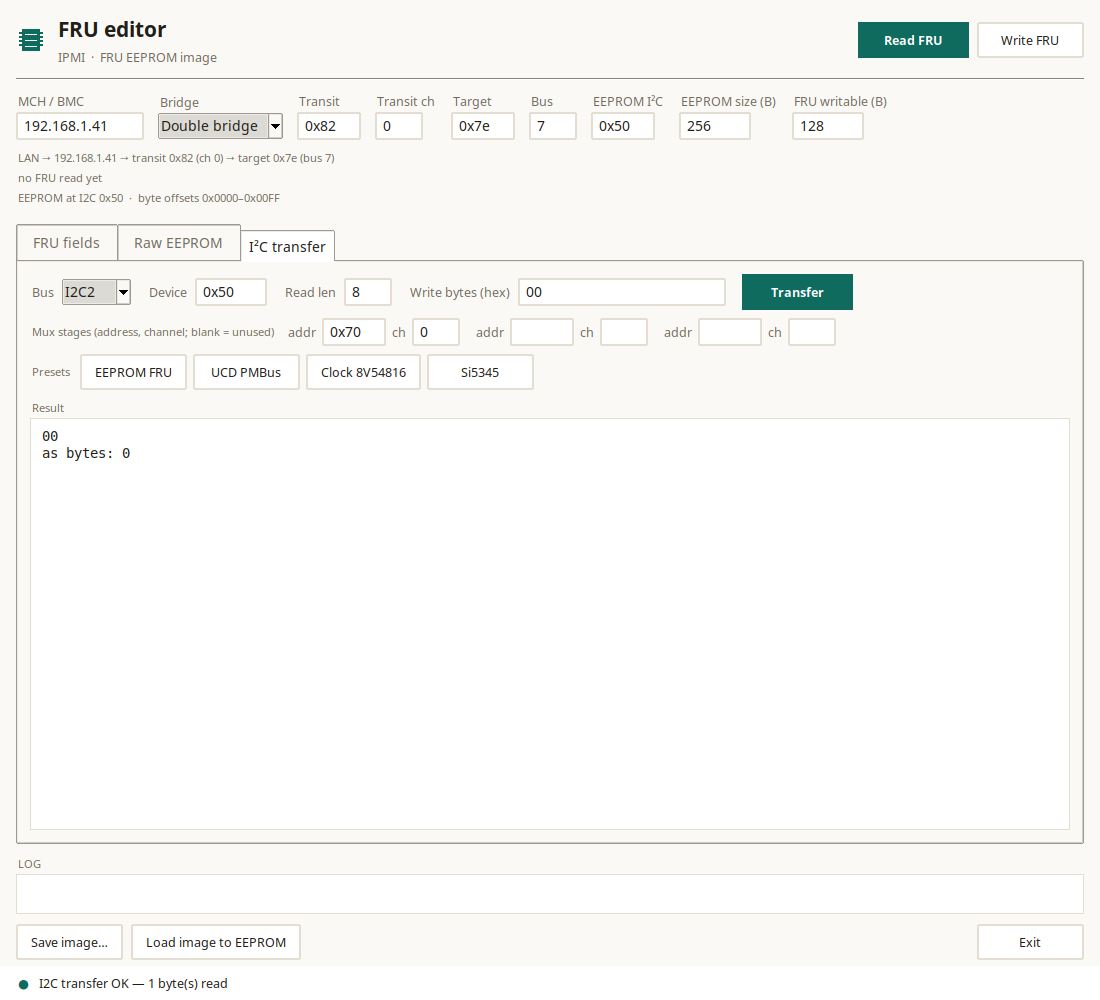
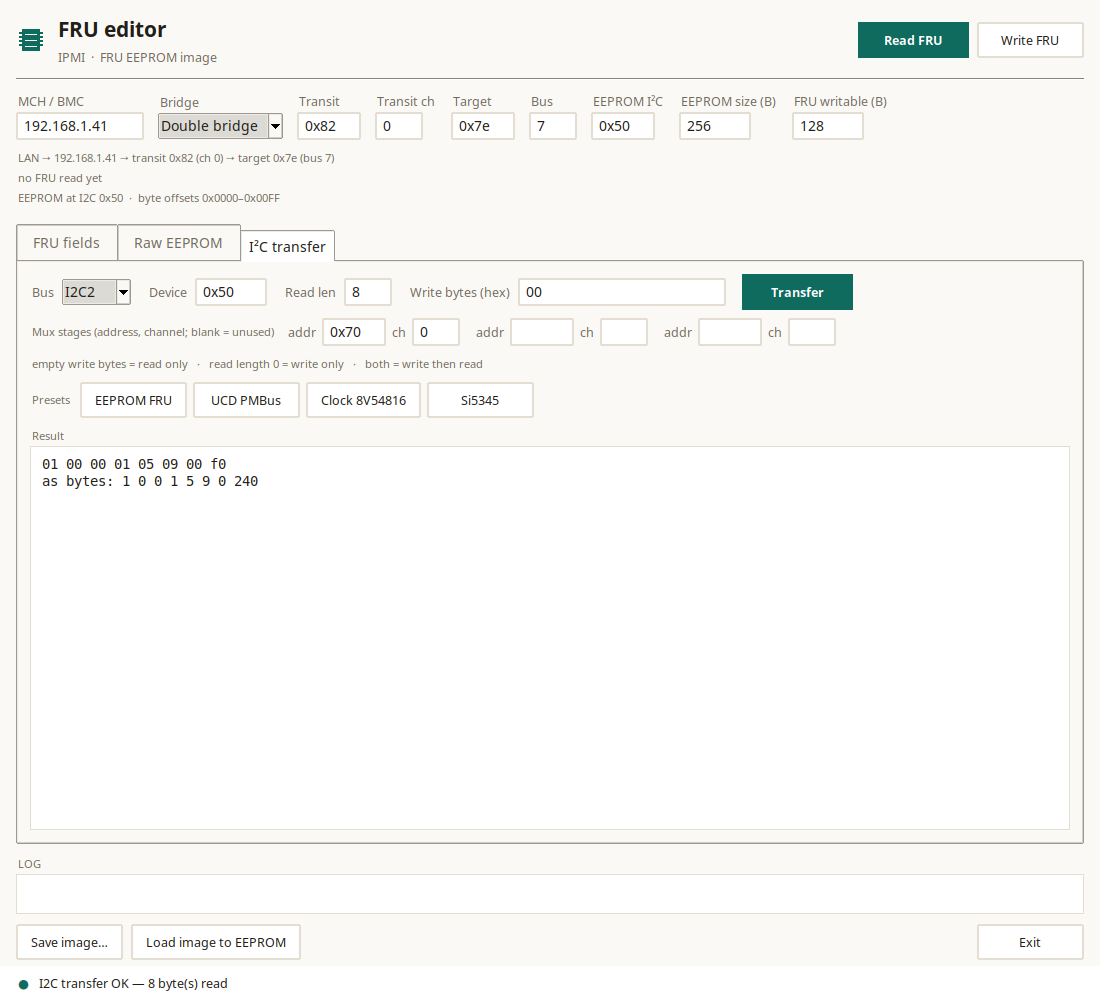
i2c: explicit read-only / write-only / write-then-read modes
The generic transfer already encoded the mode in wlen/rlen; make it
first-class:
- wlen=0, rlen>0 -> pure read via xI2CMasterRead (no byte written);
- wlen>0, rlen=0 -> pure write;
- wlen>0, rlen>0 -> write then read (repeated START);
- wlen=rlen=0 -> rejected.
Verified on AMC7: pure read from the EEPROM pointer, pure write and
write+read all return the expected data. GUI shows the mode hint;
User manual documents the three cases. Linux binary rebuilt.

Changed region(s): [[0.0309, 0.341, 0.4945, 0.496]]

diff --git a/modules/i2c_access.c b/modules/i2c_access.c
@@ -133,19 +133,33 @@ IPMI_HANDLER(ipmi_i2c_transfer, NETFN_CUSTOM, IPMI_CUSTOM_CMD_I2C_TRANSFER, ipmi
 
     if ( ok )
     {
-        if ( rlen )
+        if ( rlen && wlen )
         {
+            /* write then read (register / PMBus / EEPROM address) */
             if ( xI2CMasterWriteRead( bus, dev, wdata, wlen, rsp->data, rlen ) != rlen )
+            {
+                ok = 0;
+            }
+        }
+        else if ( rlen )
+        {
+            /* pure read: no byte is written first */
+            if ( xI2CMasterRead( bus, dev, rsp->data, rlen ) != rlen )
+            {
+                ok = 0;
+            }
+        }
+        else if ( wlen )
+        {
+            /* pure write */
+            if ( xI2CMasterWrite( bus, dev, wdata, wlen ) != wlen )
             {
                 ok = 0;
             }
         }
         else
         {
-            if ( xI2CMasterWrite( bus, dev, wdata, wlen ) != wlen )
-            {
-                ok = 0;
-            }
+            ok = 0;     /* nothing to do */
         }
     }
 

diff --git a/tools/fru_gui/fru_gui_tk.py b/tools/fru_gui/fru_gui_tk.py
@@ -332,6 +332,10 @@ class FruEditor(tk.Tk):
             ttk.Entry(muxrow, textvariable=c, width=4).pack(side="left", padx=(4, 14))
             self.mux_vars.append((a, c))
 
+        ttk.Label(parent,
+                  text="empty write bytes = read only   ·   read length 0 = write only   ·   both = write then read",
+                  style="Hint.TLabel").pack(anchor="w", pady=(0, 8))
+
         presets = ttk.Frame(parent)
         presets.pack(fill="x", pady=(0, 8))
         ttk.Label(presets, text="Presets", style="Hint.TLabel").pack(side="left", padx=(0, 8))

diff --git a/tools/fru_gui/README.md b/tools/fru_gui/README.md
@@ -115,8 +115,9 @@ A generic I²C transaction over IPMI (firmware `-DI2C_ACCESS=ON`, command
 
 - bus (I2C2 by default — everything on the uFC hangs off it),
 - up to three mux stages (address, channel),
-- device address, write bytes (hex), read length →
-  *write bytes first, then read length bytes back*.
+- device address, write bytes (hex), read length, where the two lengths pick
+  the operation: empty write bytes → **read only**, read length 0 →
+  **write only**, both → **write then read**.
 
 Presets: **EEPROM FRU** (0x70 ch0, 0x50, read 8), **UCD PMBus** (0x70 ch0,
 0x11, `8B` → READ_VOUT), **Clock 8V54816** (0x70 ch2, 0x58) and **Si5345**
